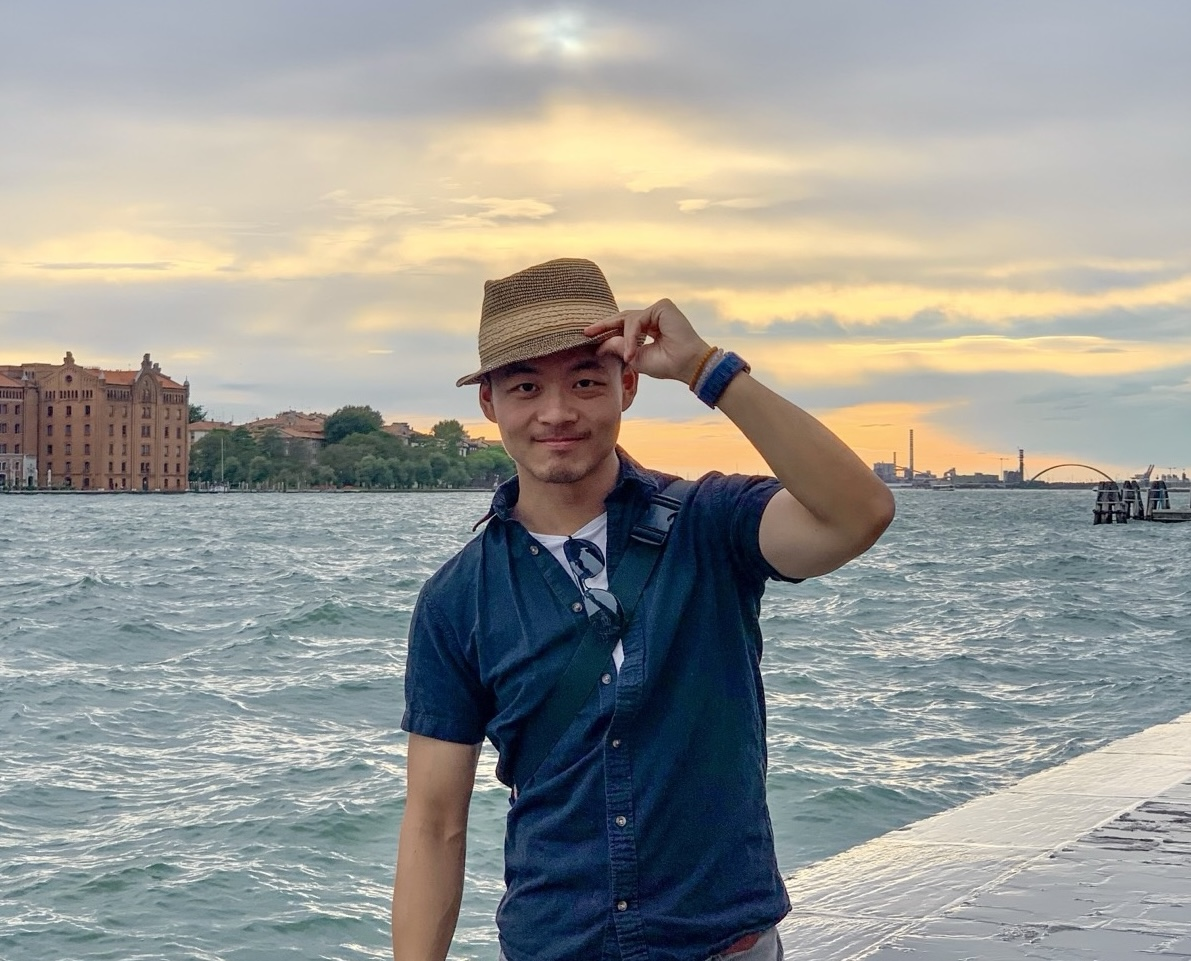
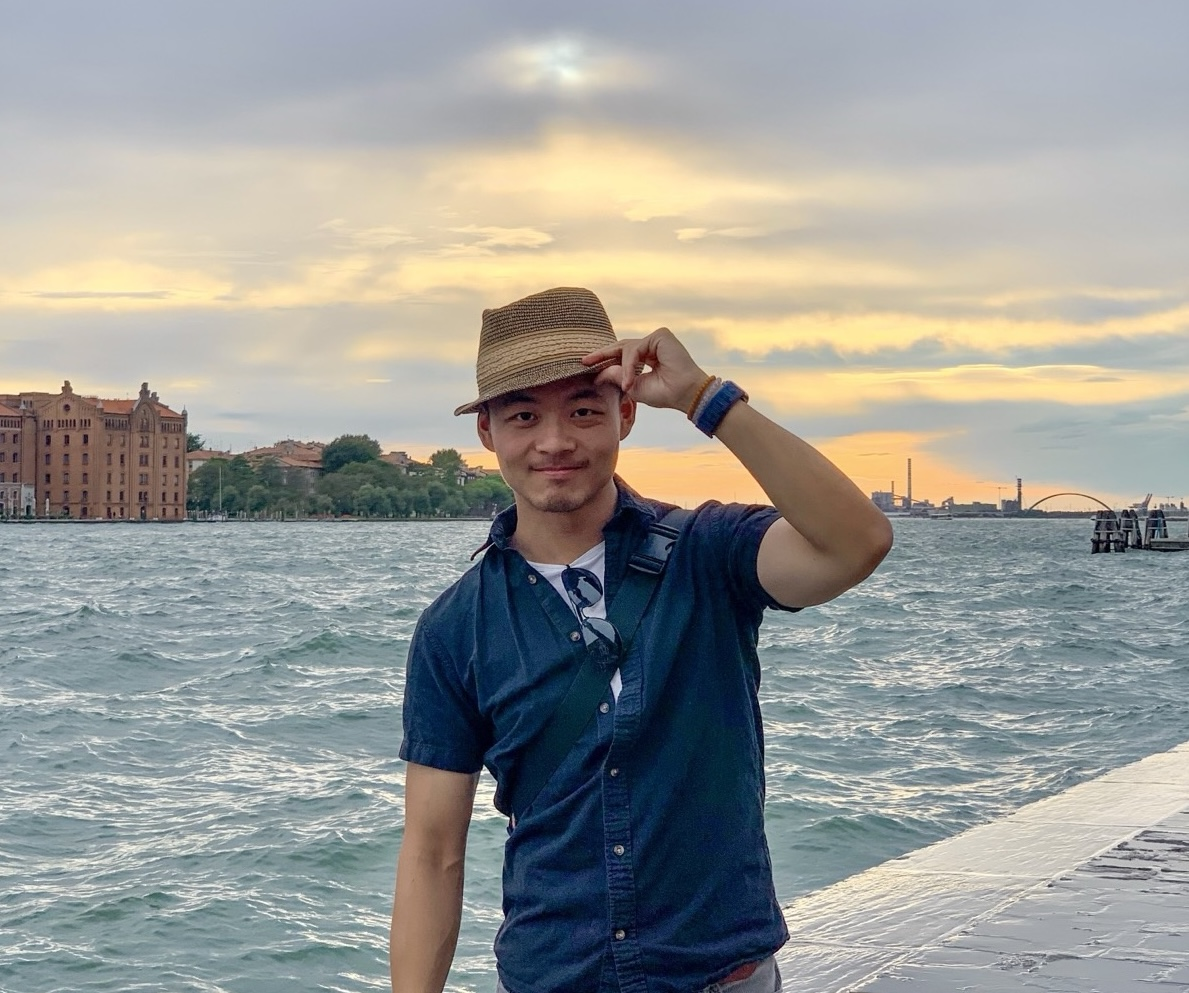
Night default, cursor fixes, facts and contact polish
- Night is the default theme regardless of system preference; the
  preference moved to a versioned localStorage key (kz-theme) so
  previously stored choices reset once, day stays available via toggle
- Links declare cursor: pointer explicitly, and hero text links get
  vertical padding so the hand cursor covers the whole line band
  (previously ~10px per line showed an arrow while the sentence
  highlighted, worst on wrapped links)
- Facts: smaller stat values and bullet text, hover renders rows and
  bullets in the accent, divider between stats and other facts removed
- Contact: value column a notch smaller than the page base
- Slightly more visible night background photo (user-tuned opacity)

diff --git a/src/context/ThemeContext.tsx b/src/context/ThemeContext.tsx
@@ -5,14 +5,16 @@ import React, { createContext, useCallback, useContext, useEffect, useState } fr
 type Theme = 'day' | 'night';
 
 function initialTheme(): Theme {
-  if (typeof window === 'undefined') return 'day';
+  if (typeof window === 'undefined') return 'night';
   try {
-    const stored = localStorage.getItem('theme');
+    // Versioned key: older stored preferences are deliberately ignored
+    const stored = localStorage.getItem('kz-theme');
     if (stored === 'day' || stored === 'night') return stored;
   } catch {
-    // localStorage unavailable; fall through to system preference
+    // localStorage unavailable; fall through to the default
   }
-  return window.matchMedia('(prefers-color-scheme: dark)').matches ? 'night' : 'day';
+  // Night is the site's default look; day stays available via the toggle
+  return 'night';
 }
 
 interface ThemeContextValue {
@@ -34,7 +36,7 @@ export function ThemeProvider({ children }: { children: React.ReactNode }) {
       setTheme((t) => {
         const next = t === 'day' ? 'night' : 'day';
         try {
-          localStorage.setItem('theme', next);
+          localStorage.setItem('kz-theme', next);
         } catch {
           // ignore write failures (private mode, etc.)
         }

diff --git a/src/components/Template/ThemeToggle.tsx b/src/components/Template/ThemeToggle.tsx
@@ -7,13 +7,13 @@ import { useTheme } from '@/context/ThemeContext';
 export default function ThemeToggle() {
   const { theme, toggle } = useTheme();
 
-  // The server always renders the day glyph, but a visitor with a stored
-  // night preference hydrates with night state. Render the day glyph until
-  // after hydration so server and client markup match, then show the real
-  // theme; this avoids a React hydration mismatch.
+  // The server always renders the night glyph (the site default), but a
+  // visitor with a stored day preference hydrates with day state. Render
+  // the night glyph until after hydration so server and client markup
+  // match, then show the real theme; this avoids a hydration mismatch.
   const [mounted, setMounted] = useState(false);
   useEffect(() => setMounted(true), []);
-  const isDay = !mounted || theme === 'day';
+  const isDay = mounted && theme === 'day';
 
   return (
     <button

diff --git a/src/static/css/pages/_facts.scss b/src/static/css/pages/_facts.scss
@@ -332,8 +332,28 @@
 
     .value {
       color: _palette(fg-bold);
+      font-size: 0.9em;
       font-variant-numeric: tabular-nums;
+      transition: color _duration(transition) ease;
     }
+
+    li:hover {
+      .label,
+      .value,
+      .value a {
+        color: _palette(accent);
+      }
+    }
+
+    .label {
+      transition: color _duration(transition) ease;
+    }
+  }
+
+  // No divider between the stats and the other facts
+  .facts-content section:nth-of-type(2) {
+    border-top: none;
+    padding-top: 0;
   }
 
   .text-facts ul {
@@ -342,9 +362,21 @@
 
     li {
       margin: 0.5rem 0;
+      font-size: 0.9em;
+      transition: color _duration(transition) ease;
 
       &::marker {
         color: _palette(fg-light);
+      }
+
+      &:hover {
+        color: _palette(accent);
+
+        a,
+        strong,
+        b {
+          color: _palette(accent);
+        }
       }
     }
   }

diff --git a/app/layout.tsx b/app/layout.tsx
@@ -48,13 +48,13 @@ export const metadata: Metadata = {
   },
 };
 
+// The storage key is versioned: renaming it discards preferences stored by
+// older versions of the site, so the night default applies to everyone once.
 const themeInitScript = `
 (function(){
   var stored = null;
-  try { stored = localStorage.getItem('theme'); } catch (e) {}
-  var theme = stored === 'day' || stored === 'night'
-    ? stored
-    : (window.matchMedia('(prefers-color-scheme: dark)').matches ? 'night' : 'day');
+  try { stored = localStorage.getItem('kz-theme'); } catch (e) {}
+  var theme = stored === 'day' || stored === 'night' ? stored : 'night';
   document.documentElement.setAttribute('data-theme', theme);
 })();
 `;

diff --git a/src/static/css/layout/_hero.scss b/src/static/css/layout/_hero.scss
@@ -96,9 +96,13 @@
 .hero .hl {
   transition: color 0.3s ease;
 
-  // Linked text on the landing page speaks in the serif voice
+  // Linked text on the landing page speaks in the serif voice.
+  // The vertical padding widens the hover hit box into the line gap
+  // (inline padding paints without affecting the line height), so the
+  // hand cursor appears across the whole line band, not just the glyphs.
   a:not(.pill) {
     font-family: _font(family-heading);
+    padding-block: 0.22em;
     transition:
       color 0.3s ease,
       text-decoration-color 0.3s ease;

diff --git a/src/static/css/base/_typography.scss b/src/static/css/base/_typography.scss
@@ -17,6 +17,7 @@ a {
     ('color #{_duration(transition)} ease', 'text-decoration-color #{_duration(transition)} ease')
   );
   color: _palette(fg-bold);
+  cursor: pointer;
   text-decoration: underline;
   text-decoration-thickness: 1px;
   text-decoration-color: _palette(border);

diff --git a/src/static/css/layout/_panel.scss b/src/static/css/layout/_panel.scss
@@ -202,6 +202,11 @@ article.post {
     flex: none;
     padding-top: 0.2rem;
   }
+
+  // The value column reads better a notch smaller than the page base
+  li > :not(.label) {
+    font-size: 0.9em;
+  }
 }
 
 @media screen and (max-width: 620px) {

diff --git a/src/static/css/libs/_theme-vars.scss b/src/static/css/libs/_theme-vars.scss
@@ -58,5 +58,5 @@
   --clr-accent: #ec4b26;
   --clr-accent-05: rgba(236, 75, 38, 0.05);
   --clr-accent-ink: #fdf4f1;
-  --photo-opacity: 0.22;
+  --photo-opacity: 0.25;
 }
